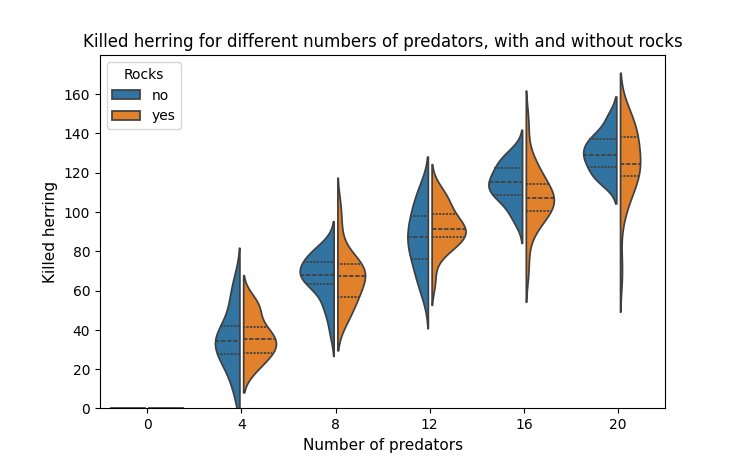
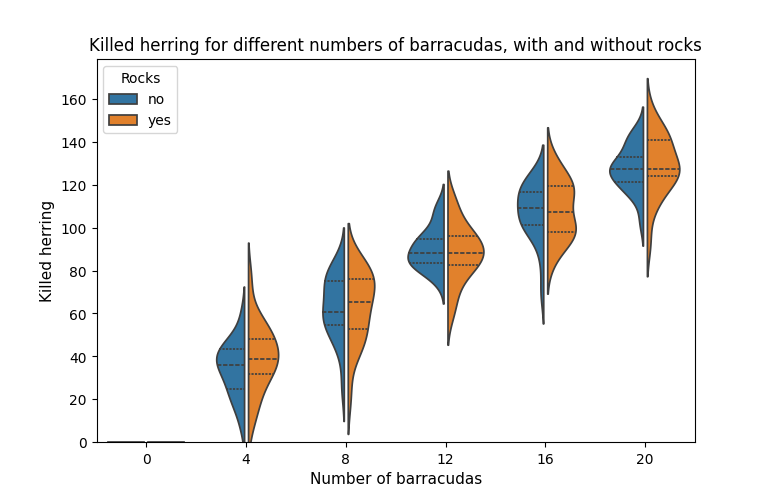
updated plots

diff --git a/code/visualisation.py b/code/visualisation.py
@@ -52,10 +52,10 @@ def influence_predator_number(max_number_predators, number_simulations, time_sim
     # Make a violin plot
     sns.violinplot(data=df, x= 'Nr predators', y= 'Killed herring', hue= 'Rocks', split=True, gap=.1, inner="quart")
     legend = plt.legend(loc='upper left', fontsize=10, title='Rocks')
-    plt.xlabel('Number of predators', fontsize=11)
+    plt.xlabel('Number of barracudas', fontsize=11)
     plt.ylabel('Killed herring', fontsize=11)
     plt.ylim(bottom=0)
-    plt.title('Killed herring for different numbers of predators, with and without rocks')
+    plt.title('Killed herring for different numbers of barracudas, with and without rocks')
     plt.show()
 
 def influence_rocks(max_number_rocks, number_simulations, time_simulation):
@@ -102,8 +102,8 @@ def influence_rocks(max_number_rocks, number_simulations, time_simulation):
         list_std_killed_3_predators.append(np.std(list_killed_herring_3_predators))
 
     # Make a plot of the average number of killed herring vs the number of rocks
-    plot = plt.errorbar(list_rock_number, list_mean_killed_1_predator, yerr=list_std_killed_1_predator, fmt='o--', color='orange', capsize=4, markerfacecolor='red', label='avarage killed herring + 1 SD, 1 predator')
-    plot = plt.errorbar(list_rock_number, list_mean_killed_3_predators, yerr=list_std_killed_3_predators,fmt='o--', color='blue', capsize=4, markerfacecolor='purple', label='avarage killed herring + 1 SD, 3 predators')
+    plot = plt.errorbar(list_rock_number, list_mean_killed_1_predator, yerr=list_std_killed_1_predator, fmt='o--', color='orange', capsize=4, markerfacecolor='red', label='avarage killed herring + 1 SD, 1 barracuda')
+    plot = plt.errorbar(list_rock_number, list_mean_killed_3_predators, yerr=list_std_killed_3_predators,fmt='o--', color='blue', capsize=4, markerfacecolor='purple', label='avarage killed herring + 1 SD, 3 barracudas')
     plt.xlabel('Number or rocks', fontsize=11)
     plt.ylabel('Average killed herring', fontsize=11)
     plt.title('Average killed herring + 1 SD errorbars in environments with different numbers of rocks')
@@ -292,13 +292,13 @@ def influences_closeness_herring(number_simulations, time_simulation):
     stripplot1 = sns.stripplot(x='Conditions', y='Times within separation distance', hue='Conditions', data=df_closeness, palette=colors_strip, ax=axes[0])
 
     # Add legend and axis labels to the first subplot
-    axes[0].text(0.01, 0.965, 'p = predators', transform=axes[0].transAxes, color='black', fontsize=10)
+    axes[0].text(0.01, 0.965, 'b = barracuda', transform=axes[0].transAxes, color='black', fontsize=10)
     axes[0].text(0.01, 0.93, 'r = rocks', transform=axes[0].transAxes, color='black', fontsize=10)
     axes[0].text(0.01, 0.9, 's d = separation distance', transform=axes[0].transAxes, color='black', fontsize=10)
     background_legend1 = patches.Rectangle((-0.04, 0.88), 0.45, 8, edgecolor='black', facecolor='lightcyan', transform=axes[0].transAxes)
     axes[0].add_patch(background_legend1)
     axes[0].set_xticks([0, 1, 2, 3, 4])
-    axes[0].set_xticklabels(['1 p, no r,\ns d = 6', '4 p, no r,\ns d = 6', '1 p, 20 r, \ns d = 6', '1 p, no r,\ns d = 3', '1 p, no r,\ns d = 12'], fontsize=11)
+    axes[0].set_xticklabels(['1 b, no r,\ns d = 6', '4 b, no r,\ns d = 6', '1 b, 20 r, \ns d = 6', '1 b, no r,\ns d = 3', '1 b, no r,\ns d = 12'], fontsize=11)
     axes[0].set_title('Herring count within the original separation distance (6)', fontsize=12)
     axes[0].set_xlabel('Environmental situation', fontsize=11)
     axes[0].set_ylabel('Times within original separation distance (6)', fontsize=11)
@@ -548,28 +548,31 @@ def visualizing_perception_change1(number_simulations, time_simulation):
     df_predator_change = pd.DataFrame()
     df_herring_change = pd.DataFrame()
     df_both_change = pd.DataFrame()
-
+    # rechts 350
+    # most links lowerpred percetion start
+    # middel rechts laag 350
     for simulation in range(number_simulations):
         print('simulation', simulation)
 
-        return_values_dict1 = Experiment(250, 4, 20, time_simulation, True, True, False, False, 32, 32, 6).run()
+        return_values_dict1 = Experiment(300, 4, 20, time_simulation, True, True, False, False, 32, 32, 6).run()
+        print(return_values_dict1)
         new_row_df = pd.DataFrame([np.diff(return_values_dict1['Killed_herring_over_time'])])
         df_no_change = pd.concat([df_no_change, new_row_df], ignore_index=True)
         print('1', 1)
 
         # Predator perception change
-        return_values_dict2 = Experiment(250, 4, 20, time_simulation, True, True, True, False, 32, 32, 6).run()
+        return_values_dict2 = Experiment(300, 4, 20, time_simulation, True, True, True, False, 32, 32, 6).run()
         new_row_df = pd.DataFrame([np.diff(return_values_dict2['Killed_herring_count_predator_perception_change'])])
         df_predator_change = pd.concat([df_predator_change, new_row_df], ignore_index=True)
         print('2', 2)
         # Herring perception change
-        return_values_dict3 = Experiment(250, 4, 20, time_simulation, True, True, False, True, 32, 32, 6).run()
+        return_values_dict3 = Experiment(300, 4, 20, time_simulation, True, True, False, True, 32, 32, 6).run()
         new_row_df = pd.DataFrame([np.diff(return_values_dict3['Killed_herring_count_herring_perception_change'])])
         df_herring_change = pd.concat([df_herring_change, new_row_df], ignore_index=True)
         print('3', 3)
 
         # Herring and predator perception change
-        return_values_dict4 = Experiment(250, 4, 20, time_simulation, True, True, True, True, 32, 32, 6).run()
+        return_values_dict4 = Experiment(300, 4, 20, time_simulation, True, True, True, True, 32, 32, 6).run()
         new_row_df = pd.DataFrame([np.diff(return_values_dict4['Killed_herring_count_herring_perception_change'])])
         df_both_change = pd.concat([df_both_change, new_row_df], ignore_index=True)
         print('4', 4)
@@ -597,38 +600,38 @@ def visualizing_perception_change1(number_simulations, time_simulation):
     fig, axs = plt.subplots(2, 2, sharex=True, sharey=True)
 
     # No perception change
-    axs[0, 0].plot(return_values_dict1['Elapsed_time'], summary_df_no_change['Mean'], marker='o', label = 'Average killed herring')
+    axs[0, 0].plot(return_values_dict1['Elapsed_time'], summary_df_no_change['Mean'], label = 'Average killed herring')
     axs[0, 0].fill_between(return_values_dict1['Elapsed_time'], summary_df_no_change['CI_low'], summary_df_no_change['CI_high'], alpha=0.3, label='95% CI')
     axs[0, 0].axhline(y=32, color='tab:green', linestyle='--',  label='Perception length herring')
-    axs[0, 0].axhline(y=100, color='tab:orange', linestyle='--',  label='Perception length predator')
+    axs[0, 0].axhline(y=100, color='tab:orange', linestyle='--',  label='Perception length barracuda')
     axs[0, 0].set_title('No perception change', fontsize=10)
 
     # Predator perception change
-    axs[0, 1].plot(return_values_dict2['Elapsed_time'], summary_df_predator_change['Mean'], marker='o')
+    axs[0, 1].plot(return_values_dict2['Elapsed_time'], summary_df_predator_change['Mean'])
     axs[0, 1].fill_between(return_values_dict2['Elapsed_time'], summary_df_predator_change['CI_low'], summary_df_predator_change['CI_high'], alpha=0.3 )
     axs[0, 1].axhline(y=32, color='tab:green', linestyle='--')
     axs[0, 1].plot(return_values_dict2['Elapsed_time'], return_values_dict2['Perception_lenghts_predator'], 'tab:orange', linestyle='--', alpha=0.5)
-    axs[0, 1].set_title('Predator perception change', fontsize=10)
+    axs[0, 1].set_title('Barracuda perception change', fontsize=10)
 
     # Herring perception change (x-as:time, y-as: killed herring)
-    axs[1, 0].plot(return_values_dict3['Elapsed_time'], summary_df_herring_change['Mean'], marker='o')
+    axs[1, 0].plot(return_values_dict3['Elapsed_time'], summary_df_herring_change['Mean'])
     axs[1, 0].fill_between(return_values_dict3['Elapsed_time'], summary_df_herring_change['CI_low'], summary_df_herring_change['CI_high'], alpha=0.3)
     axs[1, 0].axhline(y=100, color='tab:orange', linestyle='--')
     axs[1, 0].plot(return_values_dict3['Elapsed_time'], return_values_dict3['Perception_lenghts_herring'], 'tab:green', linestyle='--', alpha=0.5)
     axs[1, 0].set_title('Herring perception change', fontsize=10)
 
     # Both herring and predator perception change (herring count lists should be the same so does not matter which one you choose)
-    axs[1, 1].plot(return_values_dict4['Elapsed_time'], summary_df_both_change['Mean'], marker='o')
+    axs[1, 1].plot(return_values_dict4['Elapsed_time'], summary_df_both_change['Mean'])
     axs[1, 1].fill_between(return_values_dict4['Elapsed_time'], summary_df_both_change['CI_low'], summary_df_both_change['CI_high'], alpha=0.3)
     axs[1, 1].plot(return_values_dict4['Elapsed_time'], return_values_dict4['Perception_lenghts_herring'], 'tab:green', linestyle='--', alpha=0.5)
     axs[1, 1].plot(return_values_dict4['Elapsed_time'], return_values_dict4['Perception_lenghts_predator'], 'tab:orange', linestyle='--', alpha=0.5)
-    axs[1, 1].set_title('Predator and herring perception change', fontsize=10)
+    axs[1, 1].set_title('Barracuda and herring perception change', fontsize=10)
 
     # axs[0, 1].legend()
     # axs[1, 0].legend()
     # axs[1, 1]. legend()
 
-    fig.legend(loc='upper center', bbox_to_anchor=(0.5, 1.0), ncol=2, fontsize='small', framealpha=1)
+    fig.legend(loc='upper center', bbox_to_anchor=(0.5, 1.0), ncol=2, fontsize='medium', framealpha=1)
 
     for ax in axs.flat:
         ax.set(xlabel= 'Elapsed time', ylabel= 'average killed herring')
@@ -649,7 +652,7 @@ if __name__ == "__main__":
     # # Determine the influence of rocks on the killing rate
     # influence_rocks(80, 20, 30)
     #
-    # # Determin the invluence of more predators
+    # Determin the invluence of more predators
     # influence_predator_number(20, 20, 30)
 
     # # Determine the influence of the scoolsize
@@ -660,9 +663,9 @@ if __name__ == "__main__":
     # influence_alignment_distance(20, 30)
 
     # Determine what influence if predators are more within the separation distance
-    # df_closeness_herring = influences_closeness_herring(20, 30)
-    # significant_test_close(df_closeness_herring)
-    # significant_test_killed(df_closeness_herring)
+    df_closeness_herring = influences_closeness_herring(20, 30)
+    significant_test_close(df_closeness_herring)
+    significant_test_killed(df_closeness_herring)
 
     # Determine the influence of changes in the perception length
     # visualizing_perception_change(3)
